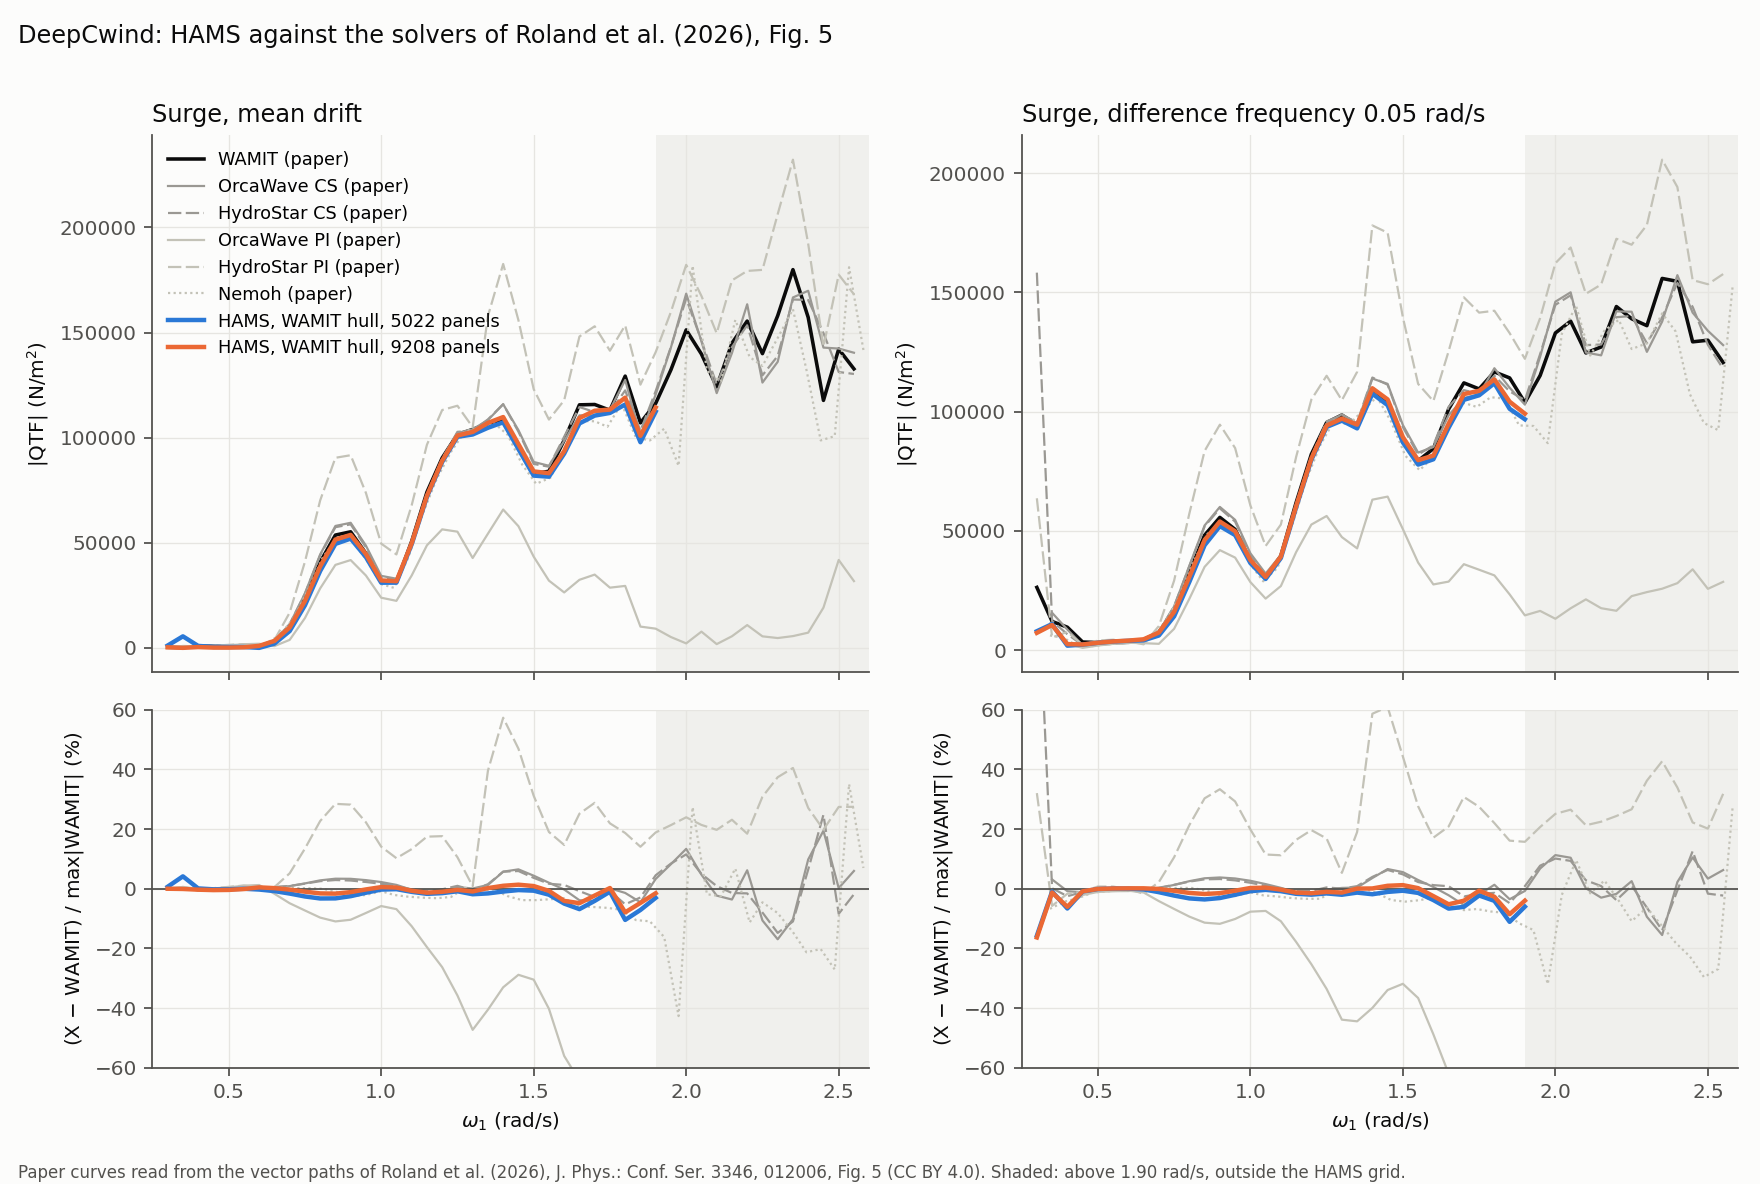
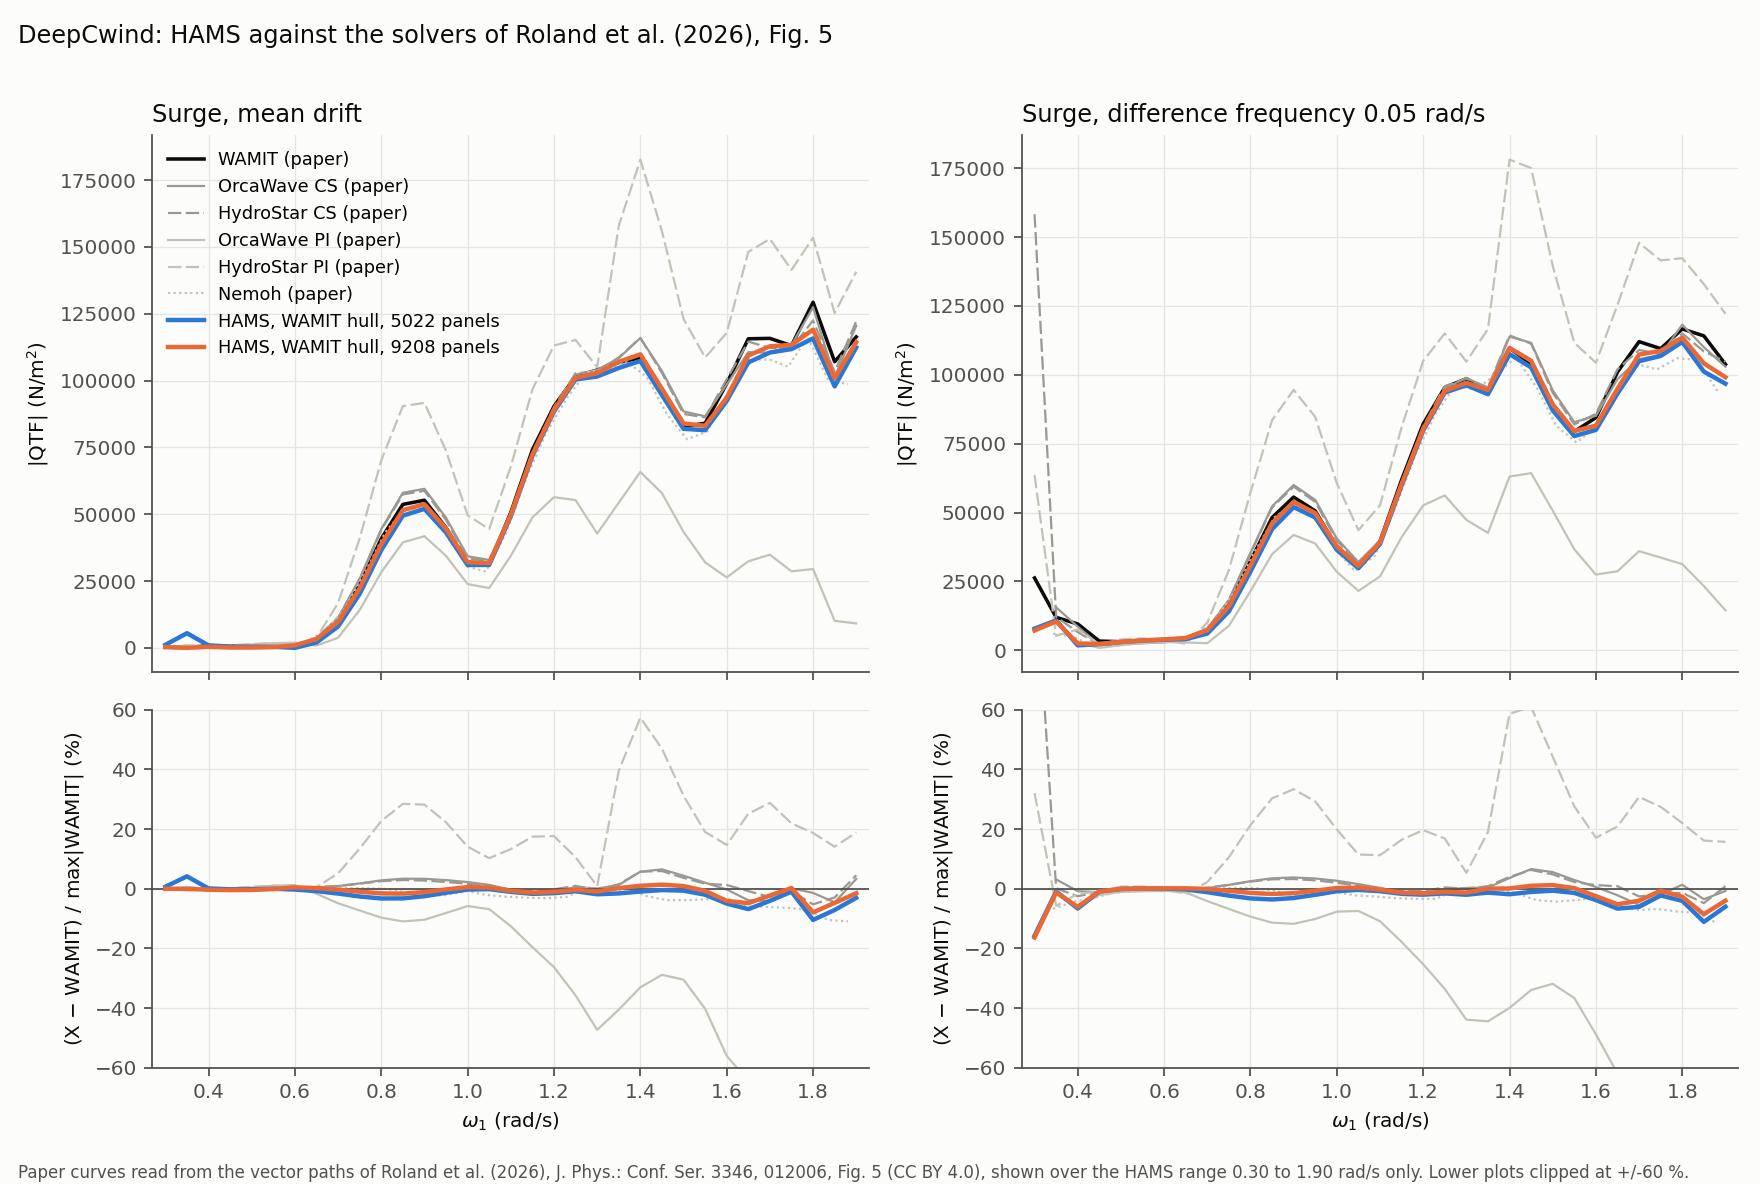
validation: Roland comparison cropped to the HAMS range, cost of the full-range extension

diff --git a/validation-runs/roland-benchmark/plot_cost_extension.py b/validation-runs/roland-benchmark/plot_cost_extension.py
@@ -1,0 +1,49 @@
+"""Cost figure of the runs that would extend HAMS to the paper's full frequency range (snellius/COST.md, "Extension to
+the full range"). Usage: python -I plot_cost_extension.py OUT_PNG"""
+import sys
+
+import matplotlib
+matplotlib.use("Agg")
+import matplotlib.pyplot as plt
+
+INK, INK2, GRID, SURFACE = "#0b0b0b", "#52514e", "#e6e5e1", "#fcfcfb"
+parts = ["First order", "Field passes / body part", "Free-surface part", "Direct method"]
+colours = ["#9ec5f4", "#2a78d6", "#1c5cab", "#eb6834"]
+# (expected hours per part, upper-bound hours per part, limit in hours)
+options = {
+    "OC4, 9208 panels\n0.25-2.55 rad/s (rec.)": ([3.5, 4.9, 0, 0], [3.5, 13.5, 0, 0], 22),
+    "OC4, 5022 panels\n0.25-2.55 rad/s": ([1.0, 2.1, 0, 0], [1.0, 5.9, 0, 0], 9),
+    "VolturnUS-S A, 0.25-2.50\ninner FS 1.25 m (rec.)": ([0.9, 1.6, 5.2, 2.2], [0.9, 5.8, 13.0, 4.0], 30),
+    "VolturnUS-S A, 0.25-2.50\ninner FS 2 m": ([0.9, 1.6, 2.0, 2.2], [0.9, 5.8, 5.0, 4.0], 18),
+    "VolturnUS-S A as approved\n0.25-1.90": ([0.8, 1.2, 1.5, 1.6], [0.8, 4.3, 7.7, 3.0], 18),
+}
+fig, ax = plt.subplots(figsize=(10.5, 6.6), facecolor=SURFACE)
+ax.set_facecolor(SURFACE)
+ticks = []
+for k, (name, (exp, upper, limit)) in enumerate(options.items()):
+    y = -1.0 * k
+    for row, values in ((0, exp), (1, upper)):
+        left = 0.0
+        for v, c in zip(values, colours):
+            if v:
+                ax.barh(y - 0.24 * row, v * 24, left=left, height=0.22, color=c, edgecolor=SURFACE, linewidth=1.5)
+            left += v * 24
+        ax.text(left + 6, y - 0.24 * row, "%s %.0f" % ("expected" if row == 0 else "upper", left), va="center",
+                fontsize=8, color=INK)
+    ax.plot([limit * 24] * 2, [y - 0.38, y + 0.14], color=INK2, lw=1.2, ls=(0, (4, 2)))
+    ax.text(limit * 24 + 6, y + 0.14, "limit %d h = %d (max billed)" % (limit, limit * 24), fontsize=7.5, color=INK2,
+            va="center")
+    ticks.append((y - 0.12, name))
+ax.set_yticks([t for t, _ in ticks])
+ax.set_yticklabels([n for _, n in ticks], fontsize=8.5)
+ax.set_xlabel("core-hours (24 CPUs, fat_genoa, tdsei3290); one job each, none submitted")
+ax.set_xlim(0, 900)
+ax.grid(axis="x", color=GRID)
+for s in ("top", "right"):
+    ax.spines[s].set_visible(False)
+ax.legend([plt.Rectangle((0, 0), 1, 1, color=c) for c in colours], parts, loc="upper center",
+          bbox_to_anchor=(0.5, -0.1), frameon=False, fontsize=8, ncol=4)
+ax.set_title("Extending HAMS to the frequency range of Roland et al. (2026): full reruns with irregular-frequency removal",
+             loc="left", fontsize=10, color=INK)
+fig.tight_layout()
+fig.savefig(sys.argv[1], dpi=150)

diff --git a/validation-runs/roland-benchmark/compare_diagonals.py b/validation-runs/roland-benchmark/compare_diagonals.py
@@ -82,11 +82,13 @@ def main(argv):
         for solver in PAPER:
             pts = sorted(paper[(dw, solver)])
             x, y = np.array([w for w, _ in pts]), np.array([v for _, v in pts])
+            inside = (x >= lo - 1e-9) & (x <= hi + 1e-9)   # the plots and the measure keep the HAMS range only
+            x, y = x[inside], y[inside]
             top.plot(x, y, label=solver + " (paper)", **STYLE[solver])
             if solver == "WAMIT":
                 continue
             ref = np.interp(x, ww, wv)
-            m = (x >= lo - 1e-9) & (x <= hi + 1e-9)
+            m = np.ones_like(x, bool)
             e = 100 * np.abs(y - ref) / scale
             bottom.plot(x, 100 * (y - ref) / scale, **STYLE[solver])
             lines.append("  %-32s %7.2f at %.2f / %5.2f%s" % (solver + " (paper)", e[m].max(), x[m][np.argmax(e[m])],
@@ -109,15 +111,14 @@ def main(argv):
         bottom.set_ylabel("(X $-$ WAMIT) / max|WAMIT| (%)")
         bottom.set_xlabel(r"$\omega_1$ (rad/s)")
         bottom.axhline(0.0, color=INK2, lw=0.8)
-        for ax in (top, bottom):
-            ax.axvspan(hi, 2.6, color=GRID, alpha=0.5, lw=0)
         bottom.set_ylim(-60, 60)
-        top.set_xlim(0.25, 2.6)
+        top.set_xlim(lo - 0.03, hi + 0.03)
     axes[0, 0].legend(loc="upper left", fontsize=8)
     figure.suptitle(title or "%s: HAMS against the solvers of Roland et al. (2026), Fig. %s" % (platform, fig),
                     x=0.01, ha="left", color=INK)
     figure.text(0.01, 0.005, "Paper curves read from the vector paths of Roland et al. (2026), J. Phys.: Conf. Ser. 3346, "
-                "012006, Fig. %s (CC BY 4.0). Shaded: above %.2f rad/s, outside the HAMS grid." % (fig, hi),
+                "012006, Fig. %s (CC BY 4.0), shown over the HAMS range %.2f to %.2f rad/s only. Lower plots clipped at "
+                "+/-60 %%." % (fig, lo, hi),
                 fontsize=7.5, color=INK2)
     figure.tight_layout(rect=(0, 0.02, 1, 0.97))
     figure.savefig(out_png, dpi=160)

diff --git a/validation-runs/roland-benchmark/snellius/COST.md b/validation-runs/roland-benchmark/snellius/COST.md
@@ -32,3 +32,37 @@ check at the end of the job), so a failed start costs little.
 WAMIT's second-order run (the reference) used its direct method (".12d ... DIRECT METHOD" in its log). Option A gives the
 HAMS direct result (`QTF_Direct.12d`) as well as the indirect one (`QTF_Indirect.11d`), so both are compared with WAMIT,
 like with like, and the two HAMS methods against each other on a new hull.
+
+## Extension to the full range of the paper (estimate only; nothing prepared or submitted)
+
+Roland et al. (2026) run 0.30 to 2.50 rad/s for both platforms (their section 3.3; Figs. 5 and 7 reach 2.50, the OC4 WAMIT
+file 3.0). HAMS stops at 1.90 because `velocity_method = source` cannot remove irregular frequencies (IRSP = 1 is rejected).
+The first ones are about 1.98 rad/s for the OC4 offset columns (radius 6 m) and 1.94 rad/s for the VolturnUS-S outer
+columns (6.25 m), with more below 2.55 rad/s: J_m(ka) = 0 gives 2.50 (OC4, j_11) and 2.17, 2.45 (VolturnUS-S, central
+column j_01 and outer j_11) [derived: k = j_mn / a, omega^2 = g k for these drafts]. So the extension needs
+`velocity_method = differencing` with IRSP = 1 and a lid, and a full rerun: a QTF pair needs the first-order states of both
+its frequencies in one run, so the missing frequencies cannot be added to the existing runs. The overlap 0.25 to 1.90 rad/s
+then also compares differencing with the source velocity of the existing runs.
+
+Wavelength at 2.55 rad/s: 9.5 m (deep water). Longest panel edges: OC4 9208 panels median 0.44 m, 90 % 1.87 m (lambda/5),
+largest in the top 3 m 2.45 m (lambda/3.9); OC4 5022 panels 0.69 / 2.24 / 2.29 m; VolturnUS-S 1.62 / 1.62 m, 1.40 m at the
+waterline (lambda/7 at 2.50). The OC4 meshes resolve 2.55 rad/s with most panels but not with the largest near-surface ones;
+the VolturnUS-S mesh does. The VolturnUS-S inner free surface of 2 m is lambda/4.9 at 2.50 rad/s; 1.25 m (about 11,000
+triangles) keeps lambda/8.
+
+| Job | Frequencies | Expected | Limit (max billed) |
+|---|---|---|---|
+| OC4 full hull, 9208 panels (recommended) | 47, 0.25 to 2.55 | 8.4 h, 202 core-h | 22 h, 528 core-h |
+| OC4 full hull, 5022 panels | 47, 0.25 to 2.55 | 3.1 h, 74 core-h | 9 h, 216 core-h |
+| VolturnUS-S option A, inner FS 1.25 m (recommended) | 46, 0.25 to 2.50 | 9.9 h, 238 core-h | 30 h, 720 core-h |
+| VolturnUS-S option A, inner FS 2 m | 46, 0.25 to 2.50 | 6.7 h, 161 core-h | 18 h, 432 core-h |
+| VolturnUS-S option A as approved | 34, 0.25 to 1.90 | 5.1 h, 122 core-h | 18 h, 432 core-h |
+
+Basis. OC4: the logs of the existing runs. The control-surface field passes took 4.03 h of 5.08 h (5022 panels) and 9.27 h
+of 12.72 h (9208 panels), with 67 passes for 34 frequencies and 4 radiation-only solves; the source solve 0.47 and 1.48 h.
+With 47 frequencies the passes are 98 (times 1.46). The fs-speedups code cut these passes to 0.36 of their time on OC4
+(4538 s to 1613 s, deep-water rows above k0 h = 10); the upper bound takes no saving. The rest scales with the frequencies
+(times 1.38) and the lid (times 1.3, assumed); the source solve drops. VolturnUS-S: the parts of option A times 46/34 for
+the passes and the free-surface part, times 45/33 for the direct solves, times 2.6 for the finer inner mesh, and the lid for
+the first order. The 9208-panel OC4 run is enough for the comparison: the 5022-panel run adds only the mesh trend, which the
+existing runs already show up to 1.90 rad/s.

diff --git a/docs/second_order_validation.md b/docs/second_order_validation.md
@@ -561,7 +561,7 @@ Roland et al. (2026) compare four boundary element solvers on the surge differen
 | HAMS, 5022 panels | 10.46 (1.80) / 1.49 | 15.77 (0.30) / 1.86 |
 | HAMS, 9208 panels | 7.92 (1.80) / 0.73 | 16.34 (0.30) / 1.07 |
 
-![Surge difference-frequency QTF of OC4 on the mean-drift diagonal and the diagonal of 0.05 rad/s: the six solver set-ups of Roland et al. (2026), Fig. 5, and HAMS at 5022 and 9208 panels; below, the difference from WAMIT over the largest WAMIT value. Above 1.90 rad/s (shaded) HAMS has no frequencies](figures/roland_oc4_diagonals.png)
+![Surge difference-frequency QTF of OC4 on the mean-drift diagonal and the diagonal of 0.05 rad/s: the six solver set-ups of Roland et al. (2026), Fig. 5, and HAMS at 5022 and 9208 panels; below, the difference from WAMIT over the largest WAMIT value; all curves over the HAMS range of 0.30 to 1.90 rad/s](figures/roland_oc4_diagonals.png)
 
 - HAMS integrates the pressure on the hull, a near-field method, yet its results fall in the group of the paper's middle-field solvers, not with the near-field ones. The paper's near-field results are 57% to 83% off WAMIT at the largest, with medians of 12.6% to 17.1%. Those of HAMS are 7.9% to 16.3%, with medians of 0.7% to 1.9%.
 - The median falls with the mesh, from 1.49% to 0.73% on the mean drift and from 1.86% to 1.07% at 0.05 rad/s. At 9208 panels it is the lowest of all the solvers.
